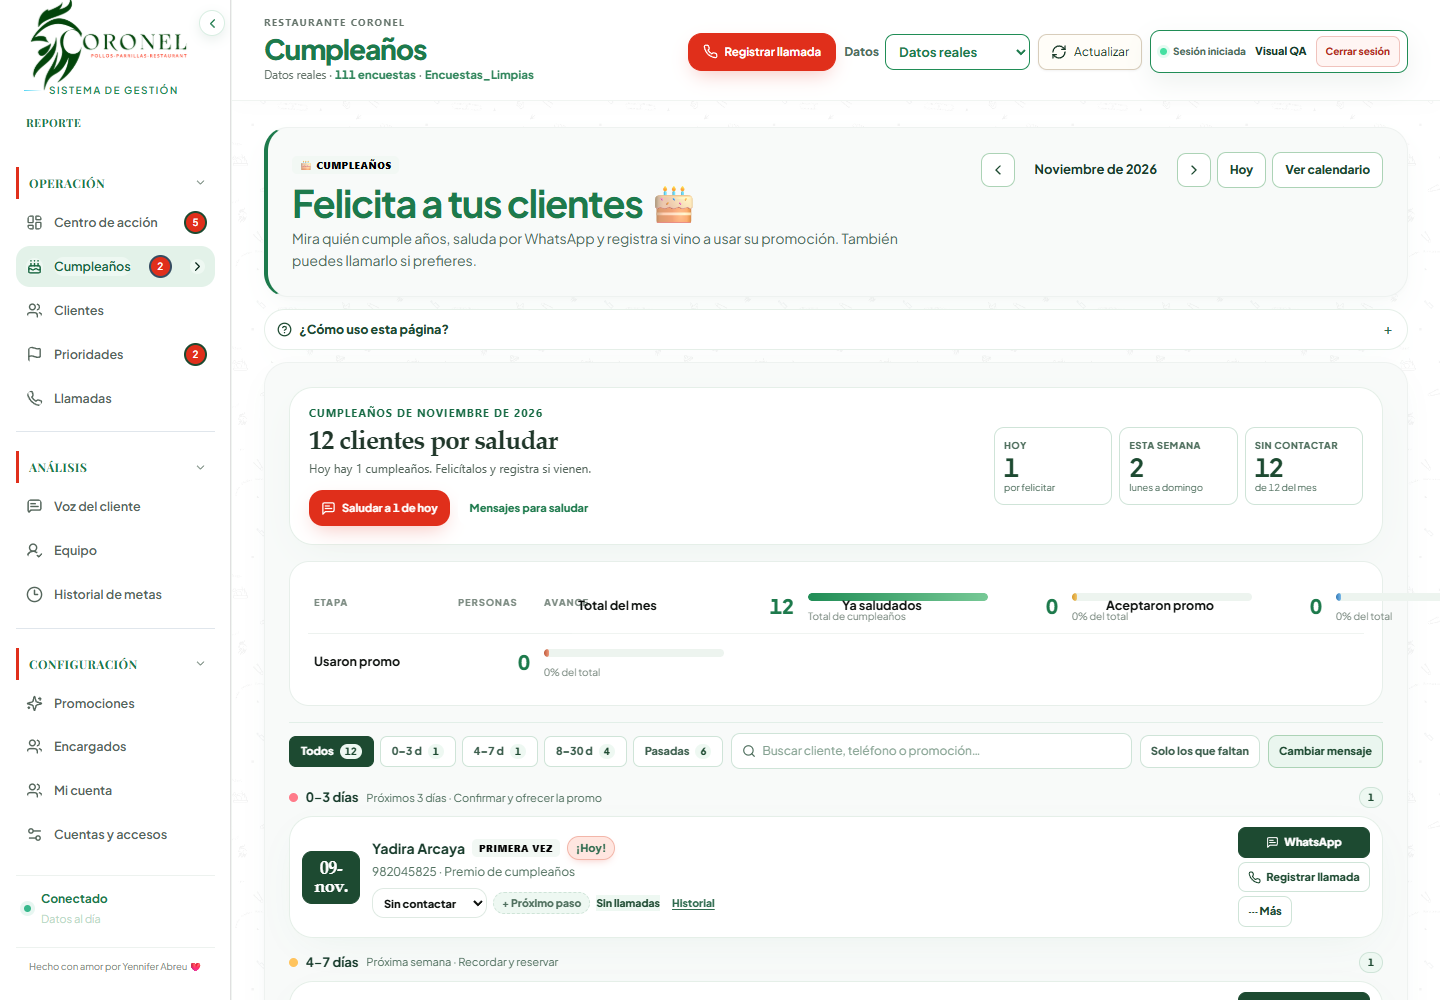
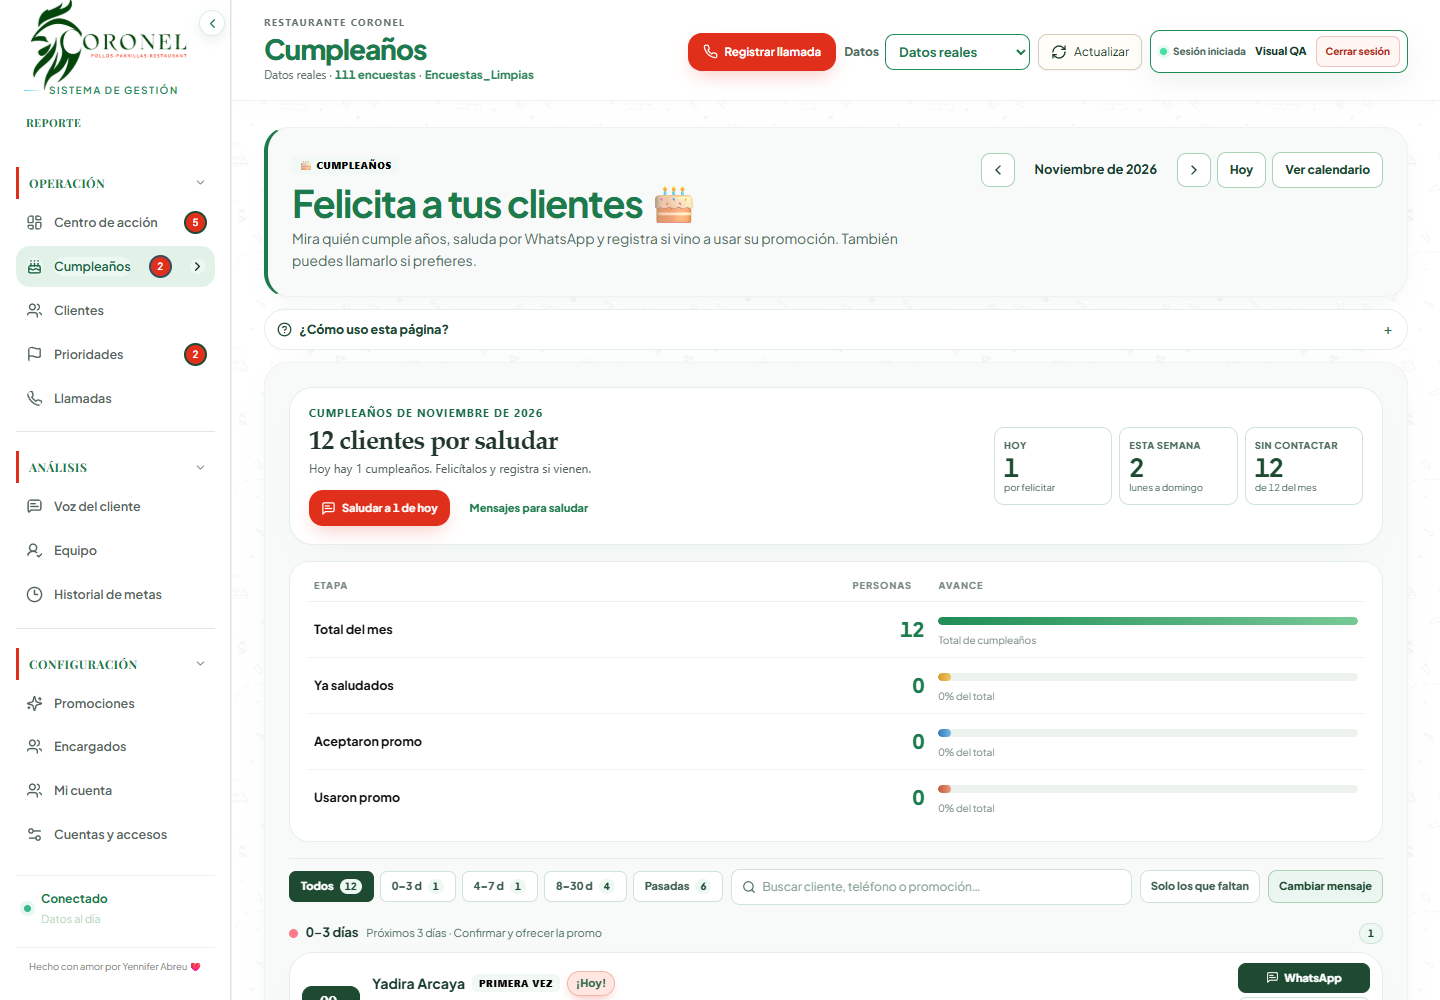
Alinear encabezados del progreso de cumpleanos

diff --git a/client/src/index.css b/client/src/index.css
@@ -4942,3 +4942,7 @@ body * { font-variant-numeric: tabular-nums; }
 @media (max-width: 760px) {
   .birthday-funnel-compact { grid-template-columns: minmax(0, 1fr) !important; }
 }
+
+/* Alinear los encabezados del funnel con sus columnas */
+.funnel-head span:nth-child(2) { text-align: right !important; }
+.funnel-head span:nth-child(3) { text-align: left !important; padding-left: 2px; }

diff --git a/docs/ESTILO_ACTUAL.css b/docs/ESTILO_ACTUAL.css
@@ -766,3 +766,7 @@ body * { font-variant-numeric: tabular-nums; }
 @media (max-width: 760px) {
   .birthday-funnel-compact { grid-template-columns: minmax(0, 1fr) !important; }
 }
+
+/* Alinear los encabezados del funnel con sus columnas */
+.funnel-head span:nth-child(2) { text-align: right !important; }
+.funnel-head span:nth-child(3) { text-align: left !important; padding-left: 2px; }
